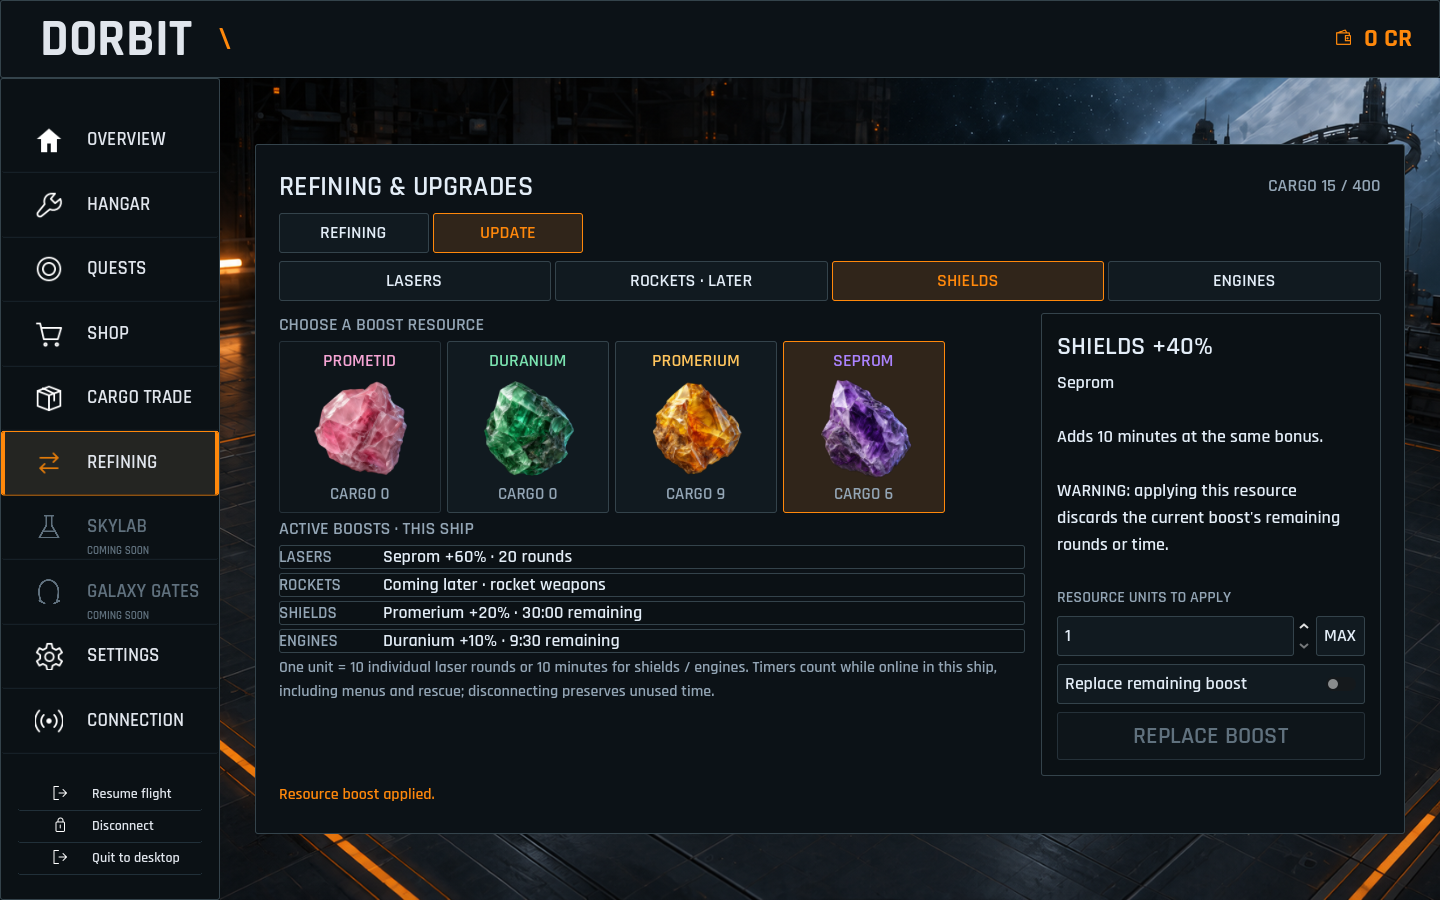
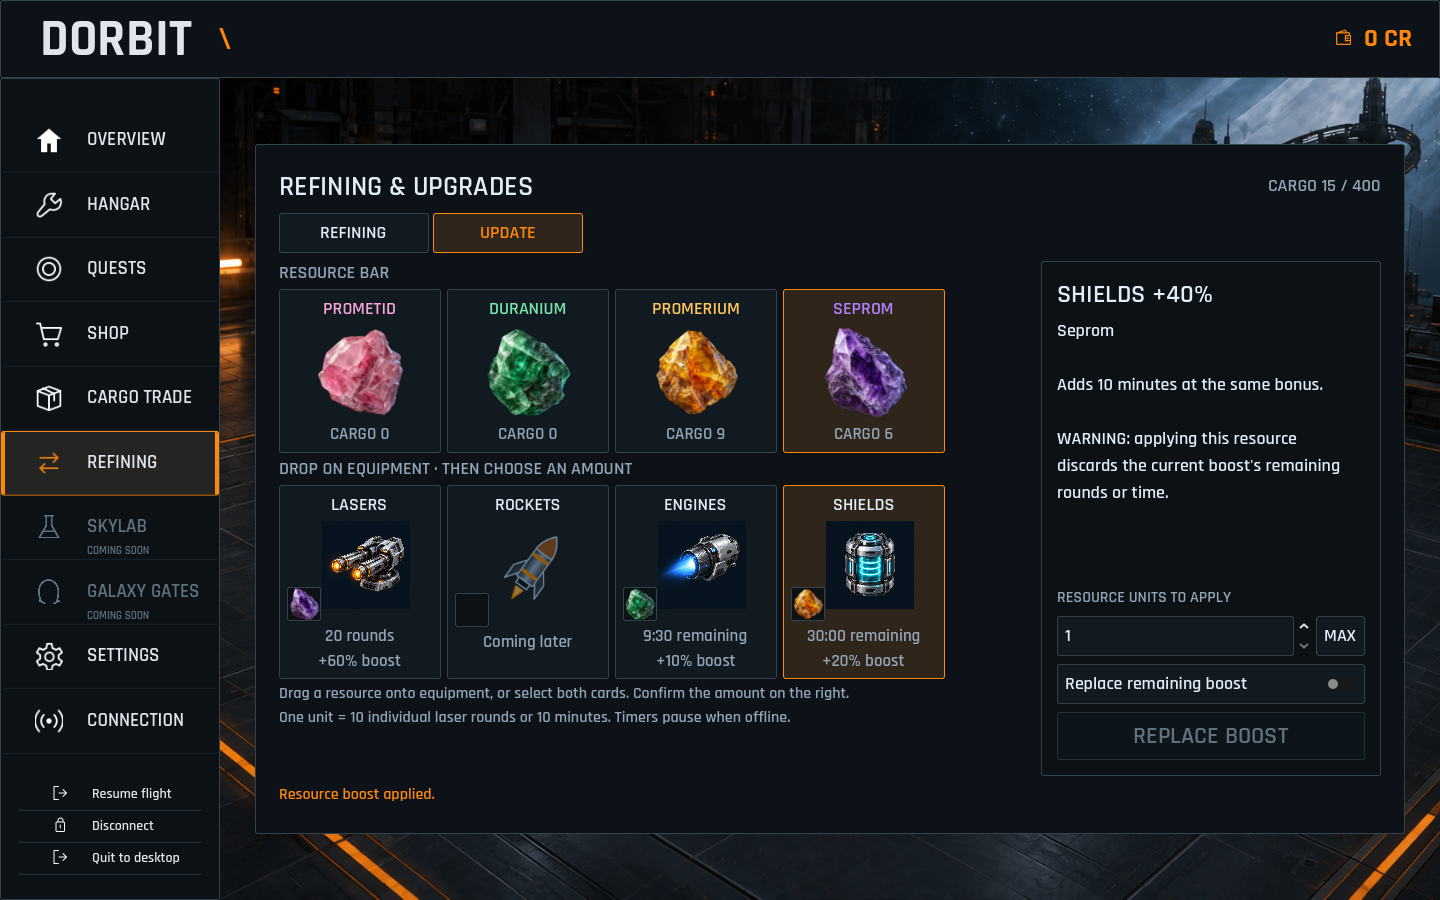
feat: add drag and drop resource boost cards

Changed region(s): [[0.1875, 0.28, 0.9062, 0.8089], [0.7188, 0.4667, 0.9375, 0.6222]]

diff --git a/GAME_PLAN.md b/GAME_PLAN.md
@@ -469,7 +469,9 @@ Xenomit is omitted because it does not exist in Dorbit. Seprom cannot be refined
 | Promerium | +30% | +20% | +20% |
 | Seprom | +60% | +40% | — |
 
-Update selects an equipment group, resource and amount. One unit provides ten boosted **individual laser rounds**, or ten minutes for shields/engines. Each installed laser consumes one round when an authoritative volley actually fires; blocked shots and cooldowns consume none. A final partial volley boosts only as many lasers as rounds remain, in laser-slot order. Each laser's own NPC bonus is included before the resource multiplier. Rocket boosts show Coming later and cannot consume cargo until rocket combat exists, as chosen by the user.
+The Update tab follows the user's two-row reference: a four-resource bar above illustrated Lasers, Rockets, Engines and Shields cards. Drag a held resource onto compatible equipment (or select both cards), then choose an amount and confirm. A drop never spends cargo by itself. Compatible targets highlight during dragging; incompatible, empty-cargo, pending and offline drops cannot apply boosts. Each equipment card shows remaining rounds/time and a small bottom-left square containing its currently applied resource image; it stays empty without a boost and clears on expiry. Previewing a replacement leaves the active resource icon unchanged until the server confirms.
+
+One unit provides ten boosted **individual laser rounds**, or ten minutes for shields/engines. Each installed laser consumes one round when an authoritative volley actually fires; blocked shots and cooldowns consume none. A final partial volley boosts only as many lasers as rounds remain, in laser-slot order. Each laser's own NPC bonus is included before the resource multiplier. Rocket boosts show Coming later and cannot consume cargo until rocket combat exists, as chosen by the user.
 
 The same resource adds rounds or duration without changing its percentage. A different resource replaces the remaining reserve only after the player checks an explicit discard warning, as chosen by the user. Boosts belong to the ship; switching hulls preserves its reserve. Shield capacity multiplies the installed total without changing absorption or granting charge; expiry clamps excess charge. Engines multiply fitted cruise and boost speeds without changing acceleration. Applying resources never repairs hull or resets cooldowns.
 

diff --git a/README.md b/README.md
@@ -513,8 +513,15 @@ confirm. Prometid uses 20 Prometium + 10 Endurium; Duranium uses 10 Endurium +
 20 Terbium; Promerium uses 10 Prometid + 10 Duranium without Xenomit. Seprom
 production waits for Skylab, while existing Seprom loot is usable now.
 
-The **Update** tab applies resources to lasers, shields or engines. Prometid
-adds 15% weapon damage; Duranium adds 10% shield capacity/speed; Promerium adds
+The **Update** tab has a resource bar above illustrated equipment cards. Drag a
+held resource onto lasers, shields or engines, then choose an amount and confirm
+on the right. Selecting both cards also works without dragging. Compatible drop
+targets highlight; a drop never spends cargo by itself. Each equipment card's
+bottom-left square shows its currently applied resource, with remaining rounds
+or time below. Previewing a replacement keeps the old icon until confirmed;
+depletion clears it.
+
+Prometid adds 15% weapon damage; Duranium adds 10% shield capacity/speed; Promerium adds
 30% weapon damage and 20% capacity/speed; Seprom adds 60% weapon damage and
 40% capacity, with no engine bonus. Each unit provides ten individual laser
 rounds or ten minutes. Four lasers use four rounds per volley, and a final
@@ -541,13 +548,13 @@ Run it with a renderer for 960 × 600 and 1440 × 900 screenshots under
 `build/validation`. Both check runners include it. Human balance playtesting
 remains necessary.
 
-On 7 October 2026, the full Windows check passed. The new upgrade fixture
-passed 75 assertions headlessly and 81 with Windows OpenGL, including real
-mouse actions at 960 × 600 and 1440 × 900. Seven Python provisioning tests
-passed. Review the [refining menu](docs/feedback/refining-menu.png) and
+The upgrade fixture includes real drag-and-drop at 960 × 600 and 1440 × 900,
+including drops onto corner badges, compatibility, replacement confirmation,
+pending/offline actions and icon updates on depletion. Review the
+[refining menu](docs/feedback/refining-menu.png),
+[compact Update tab](docs/feedback/resource-upgrades-compact.png) and
 [active boosts and replacement warning](docs/feedback/resource-upgrades-menu.png).
-The new rendered run was clean; some older checks still report ObjectDB cleanup
-warnings. Linux-only execution and release-export checks remain for PR CI.
+Human economy and balance playtesting remains necessary.
 
 ### Existing gameplay checks
 

diff --git a/assets/ui/README.md b/assets/ui/README.md
@@ -11,6 +11,8 @@
 
 The preview is an inventory illustration, not a playable ship model. Replace its texture when final ship art is integrated.
 
+`rocket-preview.svg` is an original vector illustration for the Refining Update tab's unavailable rocket category. It is presentation only; rocket combat and resource consumption remain disabled.
+
 Final generation prompt:
 
 ```text
